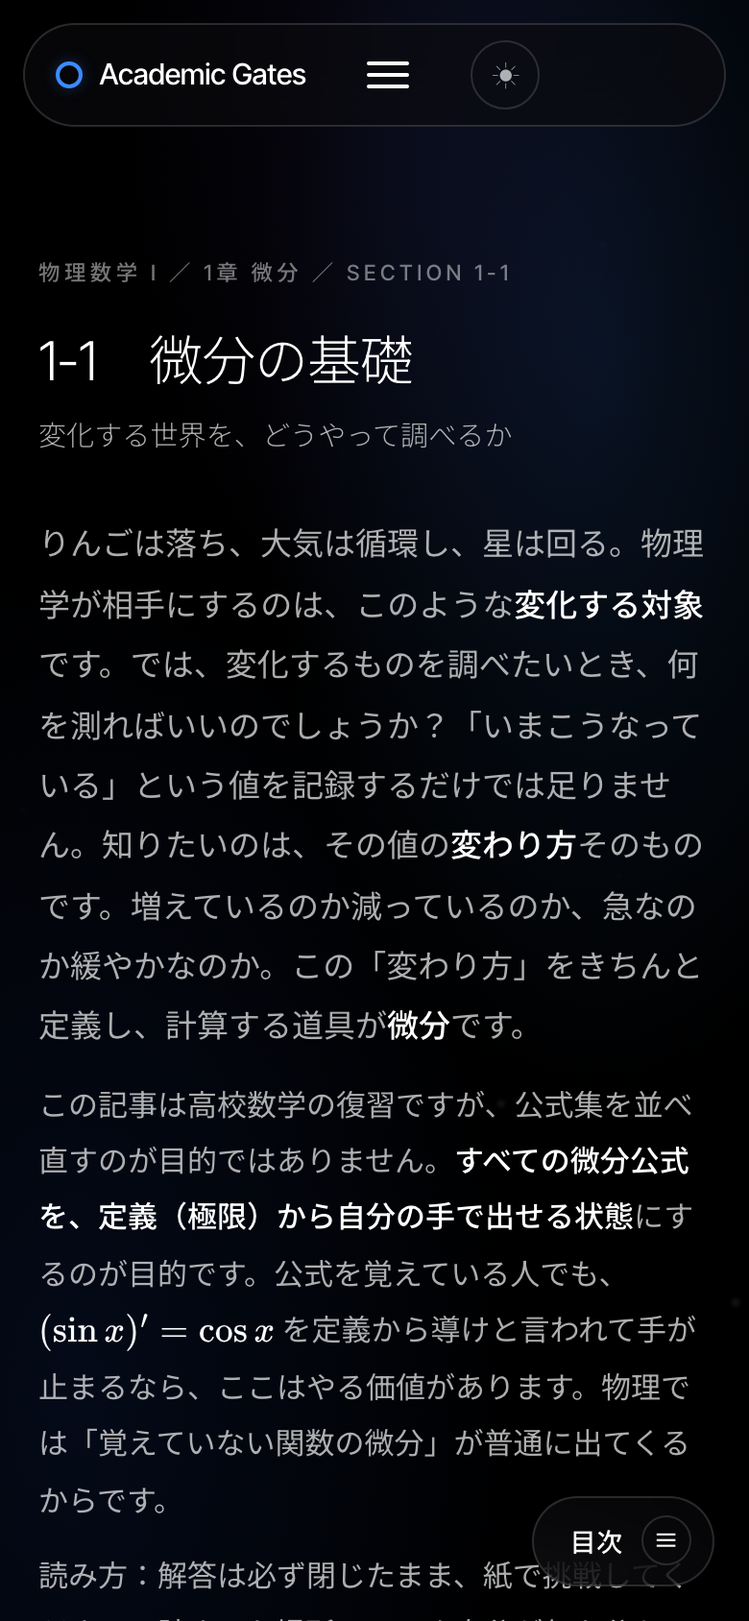
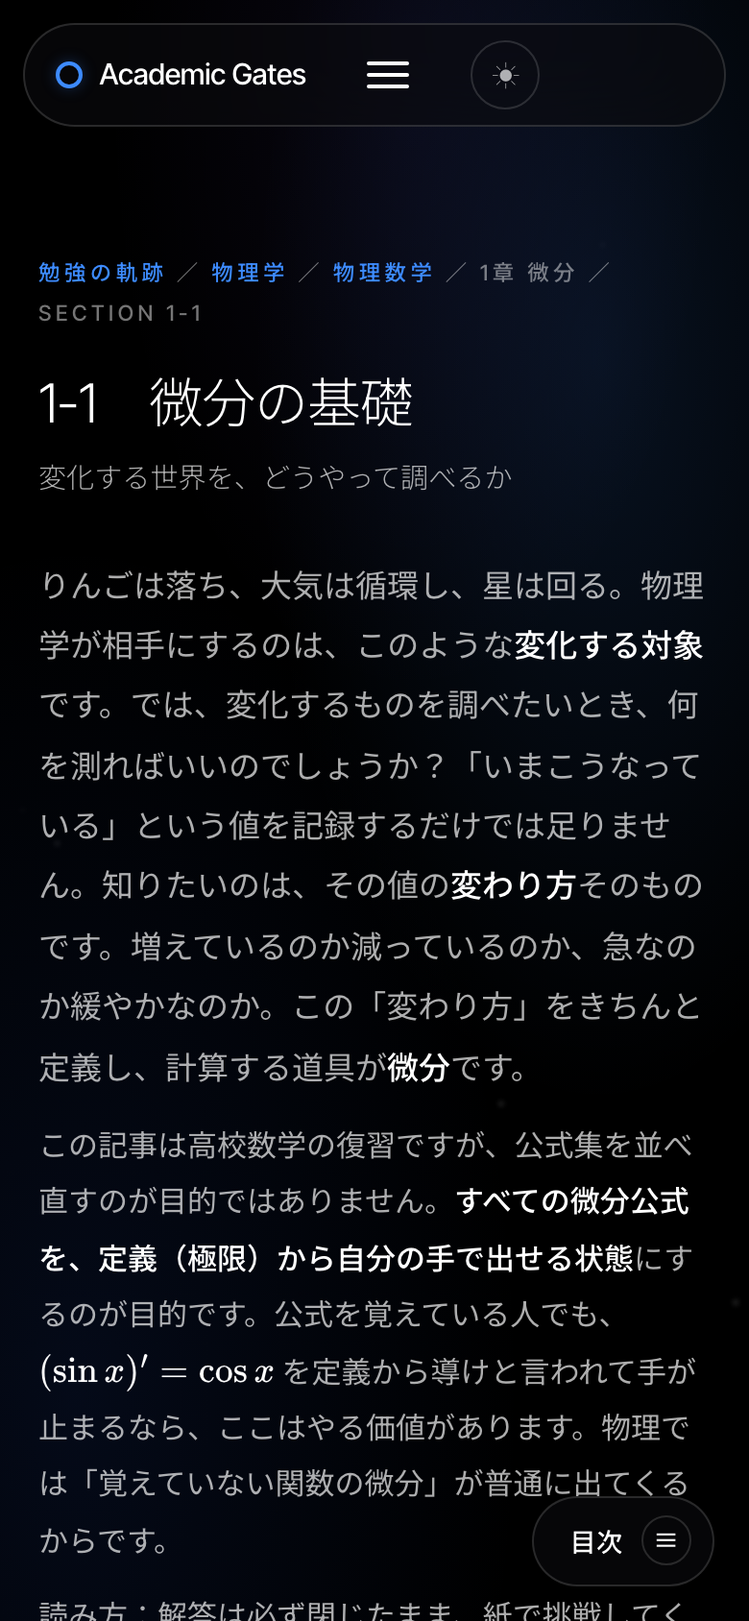
DESIGN.md §37–§39 と README、stills を更新
§37 勉強の軌跡の階層: 3階層を選んだ根拠（記事数とナビ用ページ数の比較）、
科目ページの昇格ルール、命名とサブディレクトリの移行条件＋レシピ、能力開発の
置き方、中身がないものの見せ方、パンくずの実装、accordion.js の切り出し、
CSS に足した5規則の理由。

§38 分野カード: 列数が3上限である実測（幅ごとの列数・カード幅・本文幅・行数・
高さ）、auto-fit と auto-fill の差（1枚のとき 336px と 1056px）、リンクの有無を
どう見せるか、03 に h2 を置かない理由。

§39 科目ページ: カード化が3階層の前提を壊したという順序の記録、案B を採らない
理由、章は見出し・節はカードという組み方、アコーディオンと .study-path の退役、
:has() が不要になった経緯、実測での検証。

README は §37–§39 への導線、ページ数9、4階層の命名、?v=r52。
stills は3ページぶん撮り直し、interior-subject-phys-math.png を追加。

diff --git a/Academic-Gate_hp/DESIGN.md b/Academic-Gate_hp/DESIGN.md
@@ -3757,3 +3757,338 @@ spec sections (§3, §5.5, §8, §11, §11b, §D) were updated.
 `css/lesson-theme.css`、`js/theme.js`、`js/layout.js`、`js/starfield.js`、`html/study.html`、
 `html/*.html` のキャッシュバスター `r49→r50`。**未着手**：なし。**push していない**。
 
+---
+
+# §37 — 勉強の軌跡を分野階層に（IMPLEMENTED）
+
+study.html を「物理学の科目一覧」から**分野一覧**に作り替え、分野ページを 1 枚置いた。
+`study.html（分野一覧）→ study_physics.html（分野）→ phys-math_1-1.html（記事）` の 3 階層。
+
+## 37.1 なぜ 3 階層か（科目ページを作らない）
+
+| 時期 | 記事数 | 4階層のナビ用ページ数 | 3階層 |
+|---|---|---|---|
+| 当面（物理数学 10 本） | 10 | **8**（study + 分野6 + 科目1） | **2** |
+| 物理学が一通り揃った頃 | 〜220 | 18 | 7 |
+
+4 階層は当面**ナビ用ページが記事とほぼ同数**になる。どれも手で維持する HTML なので、
+読者の利益（1 クリック減る）より作者のコストが勝つ。
+
+**昇格ルール（将来）**：1 科目が **20〜30 節**を超えたら、**その科目だけ** `phys-math.html`
+に昇格させ、分野ページからはリンクに差し替える。科目単位の段階移行で、**記事の URL は
+変わらない**。科目トップの命名は §36.1 で予約済み。
+
+**分野ページでは 基礎領域／専門領域を畳まない。** 分野専用のページで科目一覧を隠す理由が
+なく、記事到達が「分野クリック → 科目を開く → 節クリック」の 3 操作で済む。アコーディオンに
+するのは科目レベルだけ。
+
+## 37.2 命名とディレクトリ
+
+`_` が「〜に属する」、`-` は語の区切り（`peskin-qft_sec2-1.html` からの一貫した慣習）。
+
+| 階層 | ファイル名 |
+|---|---|
+| 分野一覧 | `study.html` |
+| 分野 | `study_physics.html` / `study_mathematics.html` / `study_chem.html` / `study_bio.html` / `study_history.html` / `study_skills.html` |
+| 科目（昇格時のみ） | `phys-math.html` |
+| 節 | `phys-math_1-1.html` |
+
+**数学は `study_math` ではなく `study_mathematics`** にした。`phys-math`（物理数学）と紛れるため。
+
+### サブディレクトリ — 見送り（移行条件とレシピ）
+
+**移行する条件**：`html/` が **50 ファイルを超えた**とき、または**分野ごとに画像フォルダ**が
+必要になったとき。現状 8 ファイル、物理学が揃っても 30 程度なのでフラットで読める。
+
+**そのときのレシピ**（ルート相対は使えない。本番は `/RDTP-project/Academic-Gate_hp/` 配下、
+ローカルは `/Academic-Gate_hp/` 配下と基準が違うため、深さから `../` を組み立てる）：
+
+```js
+// js/layout.js — NAV_ITEMS とフッターの href に前置する
+var depth = (location.pathname.split('/html/')[1] || '').split('/').length - 1;
+var up = new Array(depth + 1).join('../');   // 深さ1なら '../'
+```
+
+**本当のコストは layout.js ではなく**、各ページ自身の `../css/style.css` が階層ごとに変わること、
+stills とドキュメントの参照、`?v=` の扱いが全部「深さ依存」になること。作業自体は機械的
+（`git mv` ＋ パスの一括置換 ＋ 上記）。
+
+## 37.3 能力開発の置き方
+
+学問分野と**同じページの、番号付きの別セクション**に置く（`02 — Fields` / `03 — Training`）。
+全ページが使っている eyebrow の連番（§3）でそのまま区切れるので、新しい装飾はゼロ。
+能力開発だけ基礎／専門の区分を持たない（訓練法の平坦なリストになる）ため、同じ一覧に
+混ぜると内部構造の違いが表に出る。別ページに切り出すと勉強の軌跡から隠れる。
+
+## 37.4 中身がないものの見せ方（§36.7 の規則を一段上へ）
+
+**中身があるものだけリンク。無いものは平文。「準備中」ラベルは付けない。**
+- study.html：物理学のみリンク。数学・化学・生物学・歴史学・記憶術は平文
+- **空の分野ページは作らない**（リンクされない・中身のないページは死んだ URL になる）
+- **リンクの無効化（`disabled`・グレーアウト）は使わない。** 押せそうで押せない要素は支援技術に
+  とっても不親切で、平文のほうが状態を正しく表す。実測：アクセシビリティツリー上で
+  `role=link` を持つのは物理学だけ、他は link でも button でもない。
+
+## 37.5 パンくず — 既存の `.eyebrow` をリンク化する
+
+階層が 3 段になるとヘッダーのナビは**最上位にしか戻れない**ので、中間層への導線が要る。
+**新しいコンポーネントは足していない。**
+
+| ページ | eyebrow の中身 |
+|---|---|
+| study.html（最上位） | `01 — Study`（パンくず不要） |
+| study_physics.html | `勉強の軌跡 ／ 物理学`（前者がリンク） |
+| phys-math_1-1.html | `勉強の軌跡 ／ 物理学 ／ 物理数学 I ／ 1章 微分 ／ SECTION 1-1`（前 3 つがリンク） |
+
+マークアップは `<p class="eyebrow">` → **`<nav class="eyebrow" aria-label="パンくず">`**。
+`.eyebrow` のスタイルがそのまま効くので追加の見た目はない。
+
+**記事からの戻り導線**：パンくずに加えて、レールの `.brand`「物理数学I　1章 微分」も
+`study_physics.html#phys-math` へリンクした。§36 で廃止した `.back-link` は復活させていない
+（パンくずが上位互換で、ヘッダーの枠も消費しない）。
+
+## 37.6 `js/accordion.js` の切り出しとハッシュ展開
+
+study.html にインラインで書いていた開閉処理（`aria-expanded` 同期を含む）を切り出した。
+分野ページが増えるたびに複製するのは装飾ではなく仕組みの重複だから。現時点で読み込むのは
+`study_physics.html` だけだが、分野が増えるほど効く。
+
+**ハッシュ展開**：URL のハッシュが閉じたアコーディオンの中身を指しているとき、祖先も含めて
+開いてからスクロールする。これが無いと、記事から `#phys-math` に戻ったときに
+**「科目が閉じていて何も見えない」ページに着地する**。実測：`study_physics.html#phys-math`
+で `aria-expanded=true` / 節リンクが可視。
+
+## 37.7 CSS に足した 5 つの小さな規則（新しい見た目は足していない）
+
+| 規則 | なぜ必要か |
+|---|---|
+| `.eyebrow a { color: var(--accent) }` + `:hover` | グローバルの `a{color:inherit}` のままだと、パンくずのリンク区間と現在地が同じ色で区別できない。`.study-path a` と同じ既存のリンク扱いを当てただけ |
+| `.page-header + .study-path { padding-top: 0 }` | ナビ分のクリアランスは `.page-header` が払う（blog / videos / sns と同じ組み方）。両方が払うと 168px の空白になる |
+| `body[data-page="study"] .page-header { max-width: 900px }` | `.page-header` の既定は 1200px（blog 等のグリッド幅）。本文が 900px の読み幅なので、そのままだと**見出しだけ左にはみ出す** |
+| `.study-path ul + .eyebrow { margin-top: var(--space-8) }` | §2 のリセット `*{margin:0}` で ul の余白が消えており、次の節の eyebrow が前のリストに貼り付く |
+| `.study-path h2 + ul { margin-top: var(--space-3) }` | 同上。見出しの直下にリストが密着していた |
+
+**削除した規則**：`.study-path h2 { font-size: var(--fs-page-title) }`。h2 をページタイトルとして
+使っていた頃のもので、`.page-header h1` を置いた今は **h1 と h2 がどちらも 52px** になり階層が
+潰れる。削除して h2 はグローバルの節見出し階層（30.4px）に戻した。
+
+## 37.8 検証（headless Chrome 実測）
+
+- **往復**：`study.html →(物理学) study_physics.html →(科目を開く→1-1) phys-math_1-1.html`
+  →（パンくず 物理学）→ `study_physics.html` →（パンくず 勉強の軌跡）→ `study.html`。
+  レールの `.brand` からは `study_physics.html#phys-math` に着地し、科目が開いた状態。
+- **キーボード（accordion.js 切り出し後）**：Enter / Space で開閉、`aria-expanded` 追従、
+  Tab は閉じた中身を飛ばす（物理数学 →(開くと) 1-1 微分の基礎 → ナビ）。
+  アクセシビリティツリー上も `role=button name=物理数学 expanded=true`。
+- **平文の分野**：`role=link` / `role=button` を持つのは物理学だけ。フォーカス可能要素 0。
+  色でも判別可能（リンク `rgb(61,139,255)` / 平文 `rgb(255,255,255)`）。
+- **レイアウト**：h1 52px / h2 30.4px、見出しと本文の左端が一致（342px）、節間 64px、
+  横スクロールなし。モバイル 390px では h1 32px / h2 22.4px、階層の段差
+  科目 20 → 章 44 → 節 68px。
+- **全 8 ページ**：JS 例外 0・失敗リクエスト 0。ローカル参照 170 件すべて解決、
+  ページを跨ぐアンカー（`#phys-math`）も含めて未解決 0。
+- キャッシュバスターは全ページ `?v=r51`。
+
+## 37.9 Stills
+
+撮り直し：`interior-study.png` / `interior-study-mobile.png`（分野一覧に変わったため）。
+新規：`interior-field-physics.png` / `interior-field-physics-mobile.png`（分野ページ、科目を開いた状態）。
+記事の 5 点（`interior-lesson*.png`）はパンくずが入ったので撮り直した。
+
+## 37.10 State（working tree — NOT committed/pushed）
+新規 `html/study_physics.html`、`js/accordion.js`。更新 `html/study.html`（分野一覧に全面改稿）、
+`html/phys-math_1-1.html`（パンくず + レールのリンク）、`css/style.css`、全ページ `r50→r51`。
+
+---
+
+# §38 — 分野一覧をカードグリッドに（IMPLEMENTED）
+
+study.html の `02 — FIELDS` / `03 — TRAINING` を、素のリストから**カードグリッド**に変えた。
+分野名に一行のサブ説明が付き、幅に応じて 3 → 2 → 1 列に折り返す。
+`01 — STUDY` のヘッダーは変更していない。
+
+## 38.1 列数は 3 が上限（実測）
+
+既存の共有ルール（`minmax(280px, 1fr)` / gap 24px / max-width 1200px）をそのまま使った実測値。
+
+| 幅 | 列数 | カード幅 | 本文幅 | サブ説明 | 行内の高さ |
+|---|---|---|---|---|---|
+| 1440 | 3 | 336 | 270 | 2 行 | 175px で揃う |
+| 1024 | 3 | 291 | **225** | 全て 2 行 | 172px で揃う |
+| 768 | 2 | 334 | 268 | 2 行 | 166px で揃う |
+| 390 | 1 | 350 | 284 | 2 行 | 揃う |
+
+**4 列は採らない。** `max-width: 1200px` があるため 1440px でもグリッド内側は 1056px で、
+`(1056+24)/(280+24) = 3.55` → 3 列が上限。4 列にするには `minmax` を 240px 程度へ下げる必要が
+あり、カード幅 246 / 本文 182px（約 11 文字/行）でサブ説明が **3 行**に割れる。いま最も狭い
+1024px でも本文 225px（約 14 文字/行）で 2 行に収まっており、**これが実用下限**。しかも
+`minmax` は blog / videos / sns と共有なので、下げると 3 ページに波及する。
+
+**高さは CSS を足さずに揃う。** グリッドアイテムの既定 `align-items: stretch` と、カード側の
+`display:flex; flex-direction:column` による。1 行と 2 行が混在する行（生物学のみ 1 行）でも
+3 枚とも同じ高さになることを実測。
+
+## 38.2 `auto-fit` ではなく `auto-fill`（1 枚の節で差が出る）
+
+| | 5 枚 | **1 枚** |
+|---|---|---|
+| `auto-fill`（既存） | 336px ×3 列 | **336px**（他と同じ） |
+| `auto-fit` | 336px ×3 列（同一） | **1056px**（全幅に伸びる） |
+
+カードが複数あるときは両者は**完全に同一**で、差が出るのは「トラック数より要素が少ない」ときだけ。
+`03 — TRAINING` は 1 枚なので、`auto-fit` だとそこだけ全幅の帯になる。既存ルールが `auto-fill`
+なので、**そのまま再利用すれば正しく、グリッド規則への変更はゼロ**。
+
+## 38.3 リンクの有無をどう見せるか
+
+**採った差は 3 つ。枠線は揃えたまま。**
+
+| 差 | 実装 | 実測 |
+|---|---|---|
+| 要素そのもの | リンクは `<a class="study-card">`、他は `<div class="study-card">` | アクセシビリティツリー上 `role=link` は**物理学だけ**。グリッド内のフォーカス可能要素は 1 つ |
+| 見出しの色 | `a.study-card h3 { color: var(--accent) }` | リンク `rgb(61,139,255)` / 平文 `rgb(255,255,255)` |
+| ホバー | 共有の `:hover` を `a.study-card` にだけ付ける | リンク側だけ背景 .02→.04・枠線 .14→.24・カーソル pointer。平文側は無反応 |
+
+**枠線を薄くする案は採らない。** (1) 現在のヘアラインは `--hairline`(.14) と
+`--hairline-strong`(.24) の 2 段階しかなく、「もっと薄い」は 3 つ目の値＝新しい装飾になる。
+(2) 薄い枠＋無反応は視覚的に disabled と同じ記号で、§37.4 で避けると決めたもの。
+**記事がまだ無い分野は無効なのではなく、単に中身がないだけ**なので、他と同じ見た目で並び、
+見出しが白い（＝行き先がない）と読ませるほうが正確。
+
+## 38.4 `03 — TRAINING` に h2 を置かない
+
+`02` の h2「学問分野」は**どのカードの名前でもないグループ名**なので要る。`03` のグループ名は
+カード名そのもの（能力開発）なので、h2 を置くと「能力開発」が 2 行続けて並ぶだけになる。
+`.page-header` の直後にグリッドが来る blog.html と同じ形にした。
+「（自分用）」は**カード見出しに添える** — この構成では名前の出どころがカードだけなので。
+
+## 38.5 CSS に足したもの（値は一切変えていない）
+
+```css
+.blog-grid, .video-grid, .sns-container, .study-grid { … }        /* 名前を1つ足しただけ */
+.blog-card, .video-card, .sns-link, .note-card, .study-card { … } /* 同上 */
+.blog-card:hover, …, a.study-card:hover { … }                     /* ホバーはリンクだけ */
+a.study-card h3        { color: var(--accent); }
+a.study-card:hover h3  { color: var(--text-primary); }
+.study-grid > .eyebrow, .study-grid > h2 { grid-column: 1 / -1; } /* 見出しを全幅アイテムに */
+.study-grid > .eyebrow { margin-bottom: 0; }
+```
+
+**節の見出しをグリッドの中に全幅アイテムとして置く**のが要点。グリッド自身の箱（max-width と
+gutter）に載るので、**カードと左端が必ず揃う**（実測：見出し・カード・h1 がすべて同じ left。
+1440 で 192、1024 で 51、768 で 38、390 で 20）。見出し用のコンテナ class を別に作らずに済む。
+
+**`body[data-page="study"] .page-header { max-width: 900px }` は `:has()` 版に差し替えた。**
+study.html はカードグリッド（1200px）、study_physics.html は `.study-path`（読み幅 900px）と
+列幅が分かれたため、data-page では区別できない。
+
+```css
+.page-header:has(+ .study-path) { max-width: 900px; }
+```
+
+直後に続く本文ブロックに合わせる形。`:has()` が効かない環境では既定の 1200px に落ちるだけで
+崩れない（Chrome 105+ / Safari 15.4+ / Firefox 121+）。**これがコードベースで最初の `:has()`**。
+
+## 38.6 検証
+
+- **折り返しと可読性**：1440 / 1024 / 768 / 390px で 3 / 3 / 2 / 1 列、横スクロールなし。
+  サブ説明は最も狭い 1024px（本文 225px）でも 2 行に収まる。
+- **高さ**：どの幅でも行内で完全に一致（1 行と 2 行が混在する行でも）。
+- **遷移**：物理学カード → `study_physics.html`。
+- **全 8 ページ**：JS 例外 0・失敗リクエスト 0。ローカル参照 170 件すべて解決、未解決アンカー 0。
+
+## 38.7 State（working tree — NOT committed/pushed）
+更新 `html/study.html`（02 / 03 をカードグリッドに）、`css/style.css`。
+stills は `interior-study.png` / `interior-study-mobile.png` を撮り直し。
+
+---
+
+# §39 — 分野ページもカードに。科目ページの前倒しとアコーディオンの退役（IMPLEMENTED）
+
+study_physics.html の科目一覧をカードグリッドにし、科目ページ `phys-math.html` を作った。
+`study.html → study_physics.html → phys-math.html → phys-math_1-1.html` の **4 階層**。
+
+## 39.1 §37.1 の 3 階層は「内容量」ではなく「機構の変更」で前倒しになった
+
+§37.1 は 3 階層を選び、科目ページの昇格条件を **20〜30 節**とした。その前提は
+**科目の中身を分野ページ上でアコーディオン展開できたこと**にある。1 枚のページに
+分野 → 科目 → 章 → 節 を畳んで収められたので、科目ページが要らなかった。
+
+**カード化はその展開機構を取り上げる。** カードは「行き先がある箱」であり、中に伸び縮みする
+木を抱えられない（10 節を抱えたカードはグリッドの高さを壊す）。したがって
+**「カードにする」＝「科目ページを作る」** がセットになる。
+
+**記録**：§37.1 の昇格条件は反故にしたのではない。**内容量は変わっていない（記事は 1 本のまま）。
+変わったのは表示機構で、それが階層の前提を壊した**という順序である。逆に言えば、4 階層を
+避けたいなら分野ページはリストのままにするしかなかった。
+
+**案 B（カードの下にアコーディオンを残す）を採らなかった理由**：study.html で「カード＝行き先」と
+定義した直後に、同じ見た目の箱が別の動作をすると規則が割れる。実装面でも、展開パネルを
+`grid-column: 1/-1` で挟むと後続カードが飛び、要素が `<a>` / `<div>` / `<button>` の 3 種混在に
+なって、押せる・押せないの見分けが今より複雑になる。
+
+## 39.2 phys-math.html の組み方（章は見出し、節がカード）
+
+`study_physics.html` と同じ形：`eyebrow + h2` が章、その下のグリッドが節。章は §37 どおり
+**平文**（リンクにしない）。章が増えたら `02 — Chapter 2` の節を足すだけで、20 節でも素直に伸びる。
+
+**節カードのサブ説明は新しく書かない。** 記事がすでに持っている副題
+（`<h1>1-1　微分の基礎<span class="sub">変化する世界を、どうやって調べるか</span></h1>`）を
+そのまま使う。今後の記事も同じ位置に副題を持つので、材料は自動的に揃う。
+
+## 39.3 アコーディオン一式と `.study-path` 一式を削除した
+
+カード化で利用者がゼロになったため削除した。**使われない機構を「いつか使うかも」で残すほうが
+害が大きい**（git 履歴からいつでも戻せる）。
+
+| 削除したもの | 直前の利用者 |
+|---|---|
+| `js/accordion.js`（§37.6 で切り出したばかり） | `study_physics.html` のみ |
+| `.accordion-toggle` / `:hover` / `.accordion-content` / `.accordion-content ul ul` | 同上 |
+| `.study-path` とその関連（`.study-path a` / `a:hover` / `ul + .eyebrow` / `h2 + ul`） | 同上 |
+| `.page-header + .study-path` | 同上 |
+| **`.page-header:has(+ .study-path)`** | 同上 |
+
+**`:has()` は不要になった（§38.5 の追記）。** あの規則は「読み幅 900px の `.study-path` の前では
+見出しも 900px に」という列幅合わせだった。3 ページとも `.study-grid`（1200px）になり、
+`.page-header` の既定 1200px と一致したので、**合わせる対象そのものが消えた**。実測でも
+見出し・カード・h1 の左端が 3 ページ × 4 幅のすべてで一致している。結果として、
+**コードベースから `:has()` はいったん無くなった**。
+
+`.study-path a` の削除にあたっては、同じ宣言を共有していた `body.is-article main a:not(.btn)`
+（記事のリンク色）を残す必要がある。セレクタリストから `.study-path a` だけを外した。
+
+## 39.4 検証
+
+- **3 ページの統一**：study / study_physics / phys-math のカード幅は全幅域で一致
+  （1440→336 / 1024→291 / 768→334 / 390→350px）。見出し・カード・h1 の左端も 3 ページで一致
+  （192 / 51 / 38 / 20px）。横スクロールなし。
+- **高さ**：どのページ・どの幅でも行内で完全一致。study_physics の 8 枚は 1440px で 3+3+2、
+  768px で 2×4、390px で 1×8 に折り返し、いずれも行内は同一高さ。
+- **押せないカード**：`role=link` を持つのは物理数学だけ。古典力学・解析力学・電磁気学・熱力学・
+  統計力学・量子力学・特殊相対性理論・場の量子論・一般相対性理論・宇宙論の **10 枚は
+  link / button として公開されない**。グリッド内のフォーカス可能要素も物理数学のみ。
+- **往復**：`study → study_physics → phys-math → phys-math_1-1`。記事のパンくずは
+  **勉強の軌跡 ／ 物理学 ／ 物理数学 ／ 1章 微分 ／ SECTION 1-1** で、前 3 つがリンク。
+  各階層へ戻れることを実測。レールの `.brand` も `phys-math.html` に付け替えた。
+- **残存参照**：`study-path` / `accordion` / `:has(` は CSS・JS・HTML のどこにも無い
+  （残るのは削除の経緯を書いた `css/style.css` のコメント 2 行だけ）。
+- **全 9 ページ**：JS 例外 0・失敗リクエスト 0。ローカル参照 191 件すべて解決、未解決アンカー 0。
+  キャッシュバスターは `?v=r52`。
+
+## 39.5 サブ説明の文体
+
+11 件中、量子力学だけ「確率振幅が支配する、ミクロな世界の法則」と体言止めで、他の 10 件が
+すべて動詞で終わるため 1 枚だけ調子が変わっていた。内容は変えず語尾だけ揃えて
+**「確率振幅から、ミクロな世界の振る舞いを導く」** とした。
+
+## 39.6 Stills
+
+新規 `interior-subject-phys-math.png`。撮り直し `interior-field-physics.png` /
+`interior-field-physics-mobile.png`（カード化）。
+
+## 39.7 State（working tree — NOT committed/pushed）
+新規 `html/phys-math.html`。更新 `html/study_physics.html`（カード化）、
+`html/phys-math_1-1.html`（パンくず・レールのリンク先）、`css/style.css`（削除）、
+全ページ `r51→r52`。削除 `js/accordion.js`。
+

diff --git a/Academic-Gate_hp/README.md b/Academic-Gate_hp/README.md
@@ -55,7 +55,7 @@ wrong — commit authorship will look right and the push will still 403.
 
 | Path | What |
 |---|---|
-| `DESIGN.md` | **The design system + full decision log.** Tokens (§2), type scale (§3), components (§5), the hero scroll choreography + particle parameters (§6), fallbacks (§7), per-page adaptation (§8), shared header/footer (§11), and the round-by-round deviation log (§13). §35 records the Archive Sphere / Peskin removal; **§36 is the 教材 (lesson-page) contract** — naming, what belongs in the shared CSS, the light/dark tokens, and the element-selector traps. Read this first. |
+| `DESIGN.md` | **The design system + full decision log.** Tokens (§2), type scale (§3), components (§5), the hero scroll choreography + particle parameters (§6), fallbacks (§7), per-page adaptation (§8), shared header/footer (§11), and the round-by-round deviation log (§13). §35 records the Archive Sphere / Peskin removal; **§36 is the 教材 (lesson-page) contract** — naming, what belongs in the shared CSS, the light/dark tokens, and the element-selector traps; **§37 is the 勉強の軌跡 hierarchy** — three levels, when to add a 科目 page, breadcrumbs, and how empty fields are shown; **§38 is the 分野 card grid** — why 3 columns, why `auto-fill`, and how a card without a link is shown; **§39 is the 科目 page** — why cards forced a fourth level, and what was retired with the accordion. Read this first. |
 | `css/style.css` | Single global stylesheet. **Design tokens are defined once at the top (`:root`)** — colors, type scale, spacing, radii, `--nav-clearance`. Everything else is grouped under numbered section comments. |
 | `js/layout.js` | Injects the shared `<header>` + `<footer>` into every page from one source (loads before `main.js`; sets active nav from `data-page`; `<noscript>` fallback in each placeholder). |
 | `js/scroll-scenes.js` | The hero engine — Three.js particle field, per-stage morph shader, scroll-driven opacity/formation. index.html only. |
@@ -63,13 +63,13 @@ wrong — commit authorship will look right and the push will still 403.
 | `js/starfield.js` | Paints the static star field to `#starfield` once; repaints on debounced resize. On `body.is-article` it also thins the stars behind the reading columns (`main > section, .rail`). |
 | `js/theme.js` | Light/dark switch — **教材 pages only**, never the six main pages (§20.4). Loaded synchronously in `<head>`; `layout.js` calls `window.__agMountThemeBtn()` to place the button in the shared header. |
 | `css/lesson-theme.css` | The 教材 theme layer: light values declared with the **site's own token names**, with the lesson's `--ink` / `--line` names aliased onto them. Loaded **after** the page's own `<style>`. |
-| `html/` | 7 pages. Every `<body>` carries `data-page` (drives nav active state); a reading page adds `class="is-article"` (§35). 教材 pages are named `<subject>_<chapter>-<section>.html` — e.g. `phys-math_1-1.html` (§36.1). **Flat only**: a subdirectory breaks every relative nav link. |
+| `html/` | 9 pages. Every `<body>` carries `data-page` (drives nav active state); a reading page adds `class="is-article"` (§35). **勉強の軌跡 is four levels** — `study.html` (分野一覧) → `study_<field>.html` (分野) → `<subject>.html` (科目) → `<subject>_<chapter>-<section>.html` (記事), e.g. `study_physics.html` → `phys-math.html` → `phys-math_1-1.html` (§37.2, §39.1). Every level after the first is a **card grid** (§38). **Flat only**: a subdirectory breaks every relative nav link — the migration trigger and recipe are in §37.2. |
 | `docs/stills/` | Visual-regression baseline screenshots (current build, desktop + mobile). |
 
 ## Conventions
 
 - **Assets are cache-busted** with `?v=rNN` query strings in the HTML. Bump the number when
-  editing `css`/`js` so browsers refetch. (Current: **`r50`**.)
+  editing `css`/`js` so browsers refetch. (Current: **`r52`**.)
 - **Verify in a real browser**, not an editor preview. Baselines in `docs/stills/` were shot in
   headless Chrome (Apple GPU) and, for iOS, on a real device.
 - Three.js is pinned to **0.160.0** (jsdelivr → unpkg fallback), loaded from one place only —
